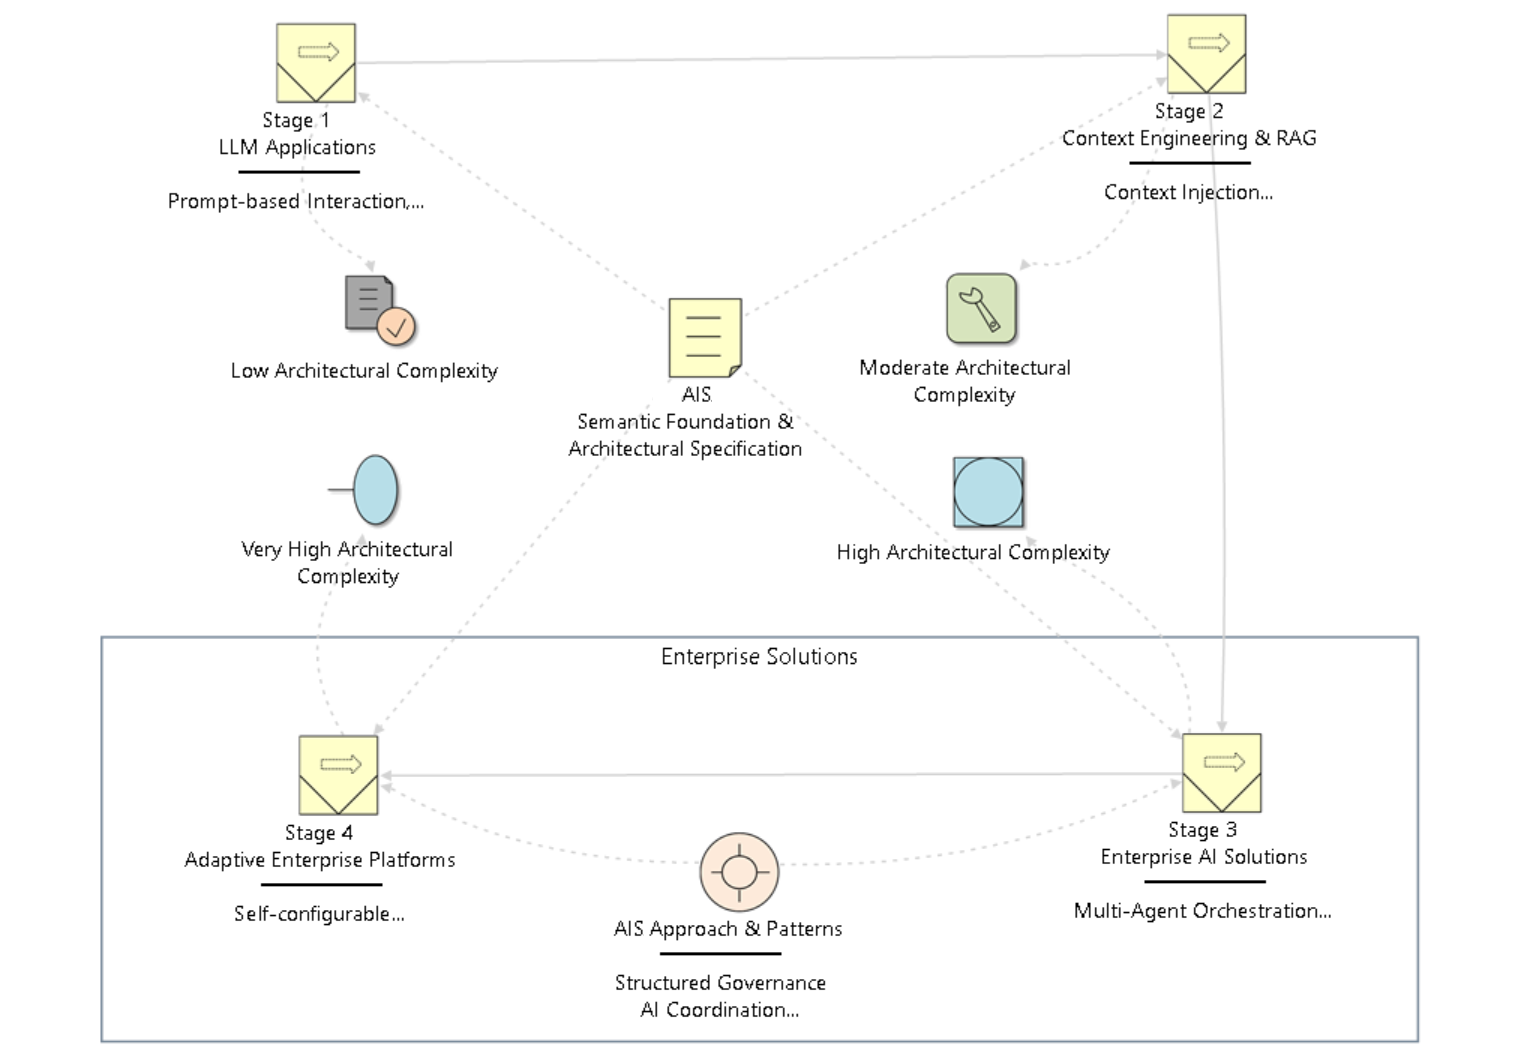
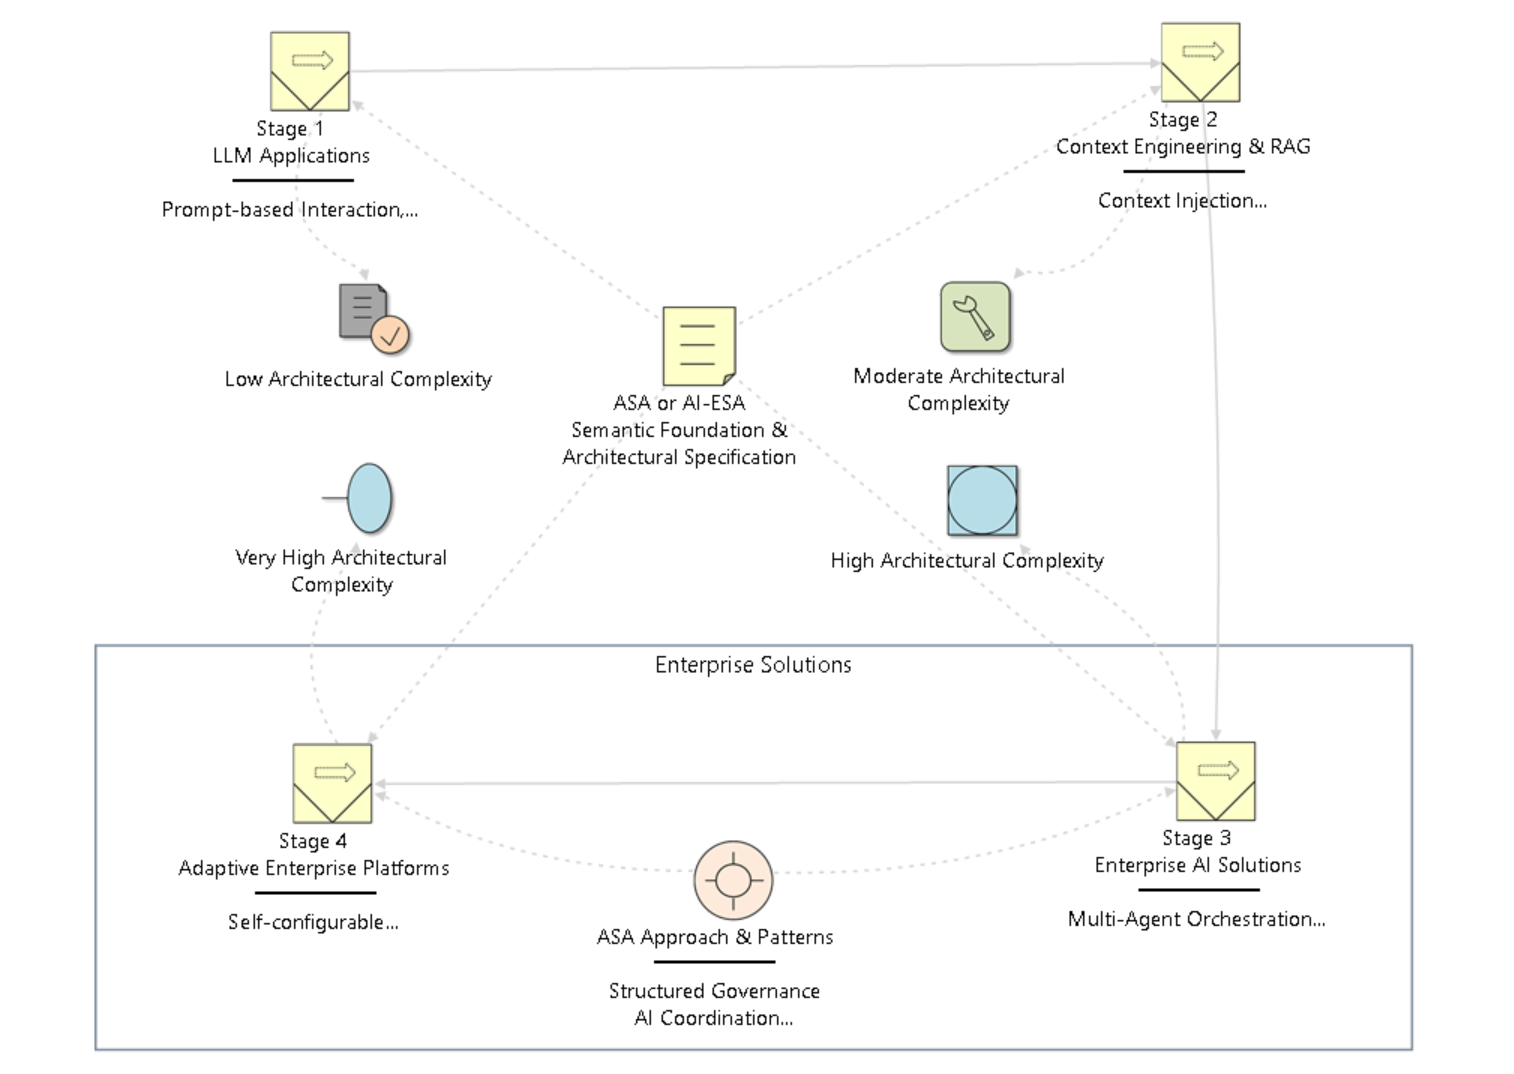
update ASA

diff --git a/docs/aisa-specification.md b/docs/aisa-specification.md
@@ -1,14 +1,14 @@
-# AIS (AI Solution) Architectural Approach and Application Pattern
+# AI Solution Architecture (ASA) Approach and Application Pattern
 
 ---
 
 ## Overview
 
-Many organizations are adopting AI without a clear understanding of how to integrate and absorb it into their broader ecosystem. The *AI Solution (AIS) Architectural Approach*, abbreviated as AIS architecture, provides blueprint-level architectural maps that can be implemented in AI solutions serving business objectives. These approaches are governed by the AIS model specification to ensure shared understanding among key stakeholders and to enable consensus through a common architectural language.
+Many organizations are adopting AI without a clear understanding of how to integrate and absorb it into their broader ecosystem. The *AI Solution Architecture (ASA) Approach* provides blueprint-level architectural maps that can be implemented in AI solutions serving business objectives. These approaches are governed by the ASA model specification to ensure shared understanding among key stakeholders and to enable consensus through a common architectural language.
 
-## AIS Architectural Approach
+## ASA Approach
 
-AIS architecture is an architectural operationalization approach for AI-native enterprise solutions governed by AIS model abstractions. In simple terms, AIS architecture represents an AI-native architectural orientation for adaptive solutions that goes beyond prompts, agents, AI tooling, and isolated AI implementations.
+ASA is an architectural operationalization approach for AI-native enterprise solutions governed by ASA model abstractions. In simple terms, ASA architecture represents an AI-native architectural orientation for adaptive solutions that goes beyond prompts, agents, AI tooling, and isolated AI implementations.
 
 It emphasizes:
 
@@ -20,49 +20,49 @@ It emphasizes:
 
 - **Data-centric architecture:** centering on AI and data architecture, including data input and sources, transformation, storage, and management. It also considers key data services such as data orchestration, model reasoning capabilities, knowledge access, context management, data APIs, intent awareness, and data validation loops to better serve enterprise business needs
 
-## AIS Arch Modeling Elements
+## ASA Modeling Elements
 
-As an AI-native architectural approach, AIS Arch focuses on AI-specific elements, as shown in the following list (Figure 1). 
+As an AI-native architectural approach, ASA focuses on AI-specific elements, as shown in the following list (Figure 1). 
 
-![AISA Modeling Elements](images/aisa-elements.png "AISA Modeling Elements")
+![ASA Modeling Elements](images/aisa-elements.png "ASA Modeling Elements")
 
 *Figure 1: AI-Specific Modeling Elements*
 
-For most AIS solutions, closely related elements - such as input, output, and governance control - as well as non-AI elements not shown in Figure 1, are also used as supplementary elements. For the complete set of AIS modeling elements, refer to the AIS model specification (see this [link](https://github.com/seniorgu/ai-esa/blob/main/docs/ai-esa-specification.md)), on which AIS architecture is based.
+For most AI solutions, closely related elements - such as input, output, and governance control - as well as non-AI elements not shown in Figure 1, are also used as supplementary elements. For the complete set of ASA modeling elements, refer to the ASA model specification (see this [link](https://github.com/seniorgu/ai-esa/blob/main/docs/ai-esa-specification.md)), on which ASA appraoch is based.
 
-If the solution is AI-augmented in nature, the AIS+ (AI-Augmented Solution) architectural approach (see this [link](https://github.com/seniorgu/aasa/blob/main/docs/aasa-specification.md)) can be applied.
+If the solution is AI-augmented in nature, the ASA+ (AI-Augmented Solution Architecture) approach (see this [link](https://github.com/seniorgu/aasa/blob/main/docs/aasa-specification.md)) can be applied.
 
-In simple terms, both AIS and AIS architectures use AIS model elements for enterprise AI solution modeling, but they differ in focus and application scope. For their relevance and relationship, see the following "Related Model Spec and Architecture" section.   
+In simple terms, both ASA and ASA+ approaches use ASA model elements for enterprise AI solution modeling, but they differ in focus and application scope. For their relevance and relationship, see the following "Related Model Spec and Architecture" section.   
 
 ---
 
-## AIS Architectural Pattern & Example
+## ASA Pattern & Example
 
-AIS architectural patterns mean more architectural usage pattern, orchestration pattern, operational topology, governance and architectural mapping patterns, rather than software design patterns or normative architectural style patterns.
+ASA patterns mean more architectural usage pattern, orchestration pattern, operational topology, governance and architectural mapping patterns, rather than software design patterns or normative architectural style patterns.
 
-### An AIS Pattern Example
+### An ASA Pattern Example
 
 Note from the Figure 2 pattern example, AI-native still requires app logic, data services, and technical services. but they are NOT the architectural center of gravity.
 
-![AISA Pattern Example](images/aisa-pattern-example.png "AISA Pattern Example")
+![ASA Pattern Example](images/aisa-pattern-example.png "ASA Pattern Example")
 
-*Figure 2: AIS Pattern Example*
+*Figure 2: ASA Pattern Example*
 
 ### An Anti-Pattern Example
 
 Figure 3 shows an “Isolated Agent Chaos” anti-pattern. This pattern shows that AI-native systems are not merely collections of agents. They require orchestration context continuity, governance, and operational control.
 
-![AISA Anti-Pattern Example](images/aisa-anti-pattern-example.png "AISA Anti-Pattern Example")
+![ASA Anti-Pattern Example](images/aisa-anti-pattern-example.png "ASA Anti-Pattern Example")
 
 *Figure 3: An Anti-Pattern Example*
 
-### AIS Canonical Example
+### ASA Canonical Example
 
-Figure 4 shows a canonical example of AIS architectural pattern for an AI-Native Enterprise Assistance Platform.
+Figure 4 shows a canonical example of ASA architectural pattern for an AI-Native Enterprise Assistance Platform.
 
-![AISA Canonical Example](images/aisa-canonical-pattern-example.png "AISA Canonical Example")
+![ASA Canonical Example](images/aisa-canonical-pattern-example.png "ASA Canonical Example")
 
-*Figure 4: AIS Canonical Pattern Example*
+*Figure 4: ASA Canonical Pattern Example*
 
 Unlike general reusable patterns, the canonical pattern focuses on holistic architectural composition and illustrates how multiple patterns can coexist coherently within a unified architectural structure.
 
@@ -100,13 +100,13 @@ Based on common understanding, the human–AI responsibility boundary can be lis
 
 ---
 
-## Roadmap to AIS Architecture 
+## Roadmap to ASA Architecture
 
-![Roadmap to AISA](images/aisa-roadmap.png "Roadmap to AISA")
+![Roadmap to ASA](images/aisa-roadmap.png "Roadmap to ASA")
 
-*Figure 5: Roamap to AIS Architecture*
+*Figure 5: Roamap to ASA Architecture*
 
-As shown in Figure 5, AI solutions typically begin with LLM applications, then evolve into context engineering and RAG-based systems. This is followed by enterprise solutions, including enterprise-grade multi-agent orchestration, business-context-aware harness engineering, and future self-configurable enterprise platforms. AIS architecture is most applicable in this enterprise stage, where architectural complexity increases and requires structured governance, coordination, and abstraction.
+As shown in Figure 5, AI solutions typically begin with LLM applications, then evolve into context engineering and RAG-based systems. This is followed by enterprise solutions, including enterprise-grade multi-agent orchestration, business-context-aware harness engineering, and future self-configurable enterprise platforms. ASA is most applicable in this enterprise stage, where architectural complexity increases and requires structured governance, coordination, and abstraction.
 
 Each of the stage focuses on:
 
@@ -120,6 +120,6 @@ Each of the stage focuses on:
 
 ## Related Model Spec and Architecture
 
-AIS architecture uses the AIS model specification and maintains a close relationship with AIS+ (AI-Augmented Solution Architecture).
+ASA uses its model specification and maintains a close relationship with ASA+ (AI-Augmented Solution Architecture).
 
-For the relationship and relevance among AIS model, AIS architecture, and AIS+ architecture, see this [link](https://github.com/seniorgu/ai-esa/blob/main/docs/relationship-of-ai-esa-to-aisa-and-aasa.md).
+For the relationship and relevance among ASA model and approach, and ASA+ approach, see this [link](https://github.com/seniorgu/ai-esa/blob/main/docs/relationship-of-ai-esa-to-aisa-and-aasa.md).

diff --git a/README.md b/README.md
@@ -1,22 +1,22 @@
-# AI Solution (AIS) Architecture - Pattern and Approach
+# AI Solution Architecture (ASA) - Pattern and Approach
 
 ## Synopsis
 
-The document describes the AIS (AI Solution) architectural approach and application pattern, abbreviated as AIS arch, which provides a blueprint for integrating AI into enterprise ecosystems. AIS architecture is an architectural operationalization method specifically for AI-native enterprise solutions, guided by AIS model abstractions. It emphasizes:
+The document describes the ASA (AI Solution Architecture) approach and application pattern, which provides a blueprint for integrating AI into enterprise ecosystems. ASA architecture is an architectural operationalization method specifically for AI-native enterprise solutions, guided by ASA model abstractions. It emphasizes:
 
 - AI-first architectural adoption (AI-driven orientation and execution)
 - Governance abstraction (validation, adaptation, feedback loops, lifecycle, and semantic alignment)
 - Architectural coordination (orchestration and sustainability under complex AI systems)
 - Data-centric architecture (focus on data flow, transformation, management, and related services)
 
-It outlines key modeling elements needed for AI-native architectures, referencing visuals such as AIS architectural components, patterns, anti-patterns (such as "isolated agent chaos"), canonical patterns, and a roadmap showing the maturity progression of AI solution adoption (from LLM apps to self-configurable autonomous systems).
+It outlines key modeling elements needed for AI-native architectures, referencing visuals such as ASA components, patterns, anti-patterns (such as "isolated agent chaos"), canonical patterns, and a roadmap showing the maturity progression of AI solution adoption (from LLM apps to self-configurable autonomous systems).
 
-AIS arch addresses specific architectural concerns including agent coordination, memory, hallucination containment, governance, human-AI responsibility boundaries, and trust management.
+ASA addresses specific architectural concerns including agent coordination, memory, hallucination containment, governance, human-AI responsibility boundaries, and trust management.
 
-The specification distinguishes AIS architecture from standard (primarily technical) “AI system architecture” by focusing on enterprise-level abstraction, intent, and cross-cutting metrics, rather than just technical system composition. It also notes the relation to its foundational model (AIS model spec) and AI-augmented architecture  (AIS+ arch).
+The specification distinguishes ASA from standard (primarily technical) “AI system architecture” by focusing on enterprise-level abstraction, intent, and cross-cutting metrics, rather than just technical system composition. It also notes the relation to its foundational model (ASA model spec) and AI-augmented architecture  (AIS+ approach).
 
 In summary:  
-AIS arch is an architectural approach and application pattern for enterprise AI solutions with emphasis on AI-native principles, orchestration, governance, data-centricity, and responsibility boundaries, providing guidance and anti-patterns, and articulating its fit within the broader enterprise architectural ecosystem.
+ASA arch is an architectural approach and application pattern for enterprise AI solutions with emphasis on AI-native principles, orchestration, governance, data-centricity, and responsibility boundaries, providing guidance and anti-patterns, and articulating its fit within the broader enterprise architectural ecosystem.
 
 ## Details
 
